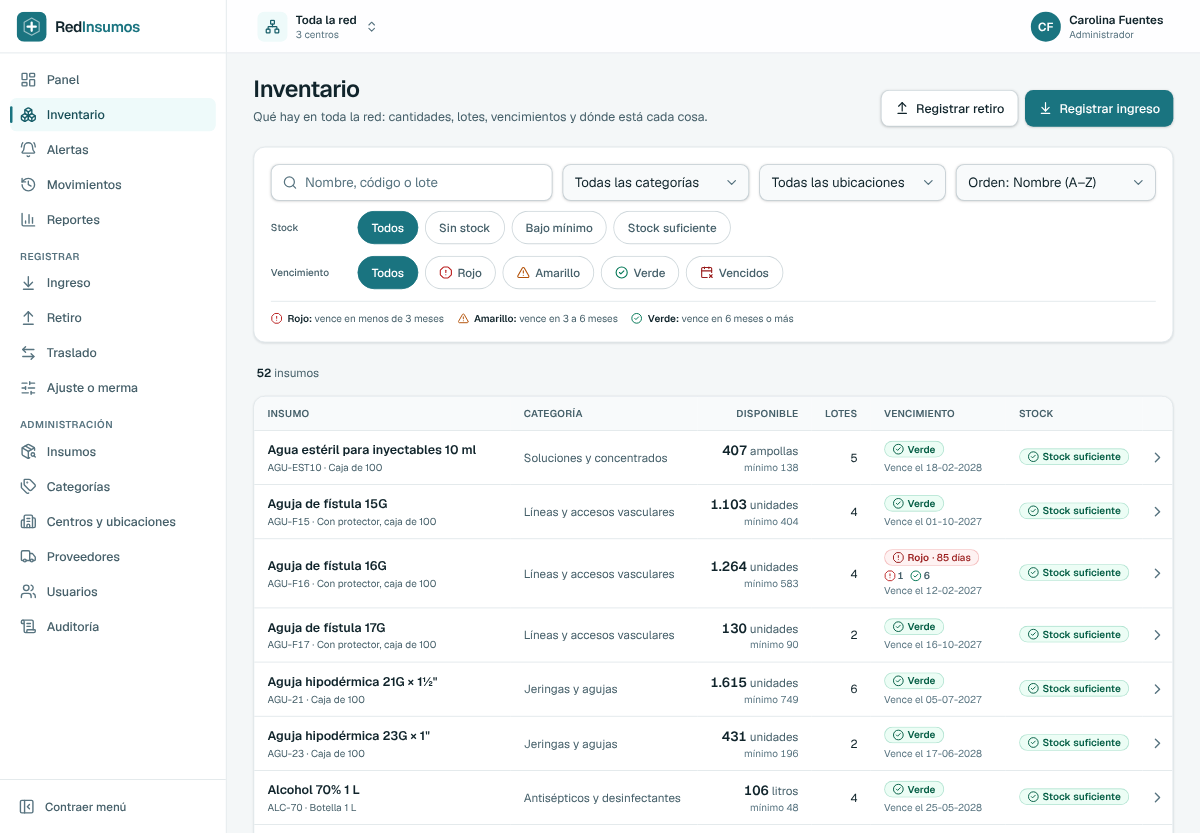
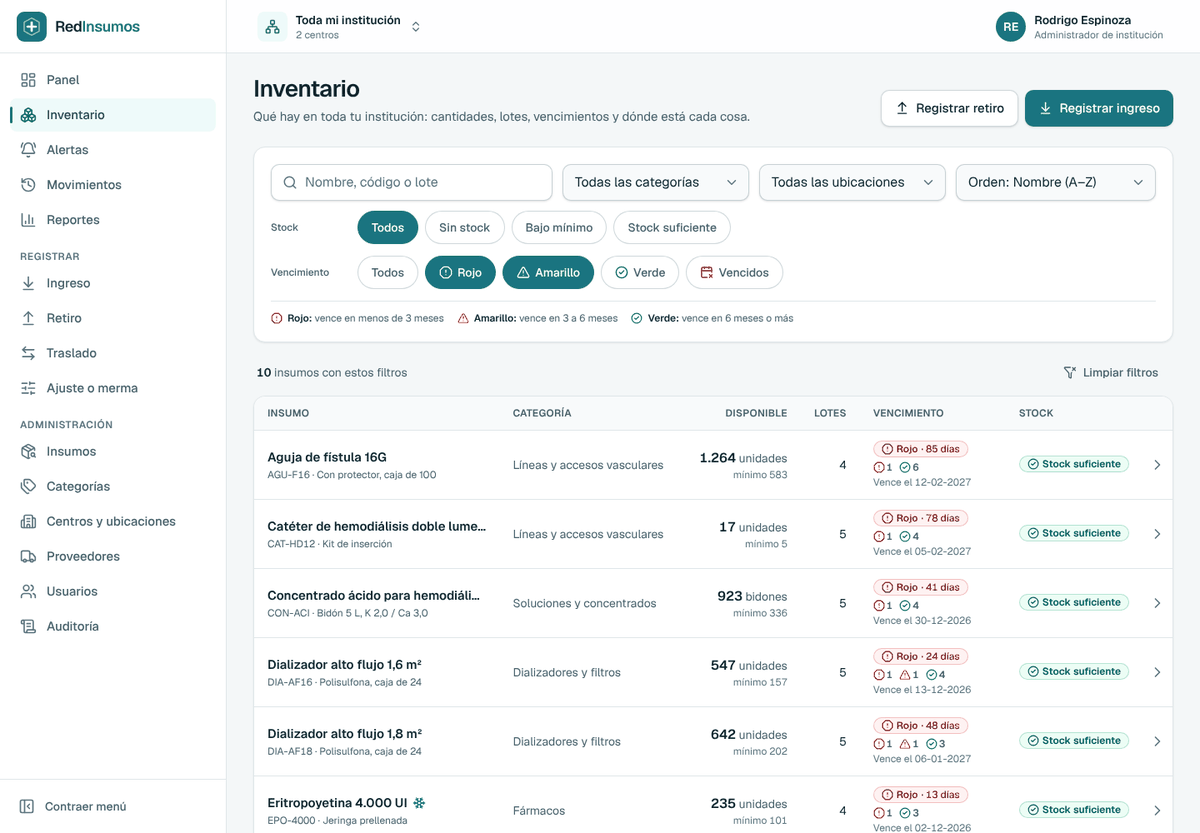
Documentación y capturas de la aplicación fusionada
Capturas regeneradas (14, optimizadas): panel de la red con semáforo e
instituciones, inventario y alertas con semáforo, administración de
instituciones, panel y escáner en el teléfono. README: capturas y pendientes al
día. OPERACION: catálogo compartido, códigos de barras, proveedores y cámara.
DESPLIEGUE: orden de las dos migraciones.

diff --git a/e2e/roles-semaforo-escaner.spec.ts b/e2e/roles-semaforo-escaner.spec.ts
@@ -133,8 +133,8 @@ test.describe("Visitante: proveedores", () => {
     // Nada de edición ni de administración.
     await expect(directorio.getByRole("link", { name: /Editar/ })).toHaveCount(0);
     await expect(directorio.getByRole("link", { name: "Administrar proveedores" })).toHaveCount(0);
-    const admin = await visita.request.get("/admin/proveedores", { maxRedirects: 0 });
-    expect(admin.status()).not.toBe(200);
+    await visita.goto("/admin/proveedores");
+    await expect(visita).toHaveURL(/\/sin-permiso$/);
   });
 
   test("«Editar» es de los dos administradores (de la red y de institución), no del bodeguero", async ({ abrirComo }) => {
@@ -151,7 +151,7 @@ test.describe("Visitante: proveedores", () => {
 });
 
 test.describe("Administrador de la red: semáforo por institución", () => {
-  test("@movil cada institución muestra vencidos, rojo y amarillo; al desplegarla, sus centros con enlaces a la pestaña correcta", async ({ abrirComo }) => {
+  test("@movil cada institución muestra vencidos, rojo y amarillo; al desplegarla, sus centros con enlaces a la pestaña correcta", async ({ abrirComo, isMobile }) => {
     const red = await abrirComo("admin");
     await red.goto("/panel");
     const resumen = red.locator("[data-resumen-instituciones]");
@@ -198,8 +198,12 @@ test.describe("Administrador de la red: semáforo por institución", () => {
     await nunoa.getByRole("link", { name: new RegExp(`lotes en rojo en ${CENTROS.nunoa}`) }).click();
     await expect(red).toHaveURL(/\/alertas\?tab=rojo&centro=/);
     await expect(red.getByRole("main").locator('a[aria-current="page"]')).toContainText("Rojo");
-    await expect(red.getByRole("banner")).toContainText(CENTROS.nunoa);
-    await expect(red.getByRole("main")).not.toContainText(CENTROS.valpo);
+    await expect(red.getByRole("combobox", { name: "Centro" }).locator("option:checked")).toHaveText(CENTROS.nunoa);
+    // La tabla (escritorio) o la lista (celular) solo trae lotes de ese centro.
+    const lotes = isMobile ? red.getByRole("list", { name: "Lotes en rojo" }) : red.getByRole("main").locator("tbody");
+    await expect(lotes).toContainText("Lote");
+    await expect(lotes).not.toContainText(CENTROS.valpo);
+    await expect(lotes).not.toContainText(CENTROS.conce);
   });
 
   test("la suma del semáforo de las instituciones del seed no supera el de toda la red, y un administrador de institución ve solo el suyo", async ({ abrirComo }) => {

diff --git a/README.md b/README.md
@@ -8,7 +8,7 @@ tablet o teléfono) y conecta a todos los centros de una misma red. La red puede
 instituciones**: cada una ve y administra solo lo suyo, y el operador de la plataforma ve el
 conjunto.
 
-![Panel del administrador](docs/capturas/02-panel-administrador.png)
+![Panel del administrador de la red: indicadores, la red por institución y el semáforo de vencimientos](docs/capturas/02-panel-administrador.png)
 
 ## Qué hace
 
@@ -37,11 +37,15 @@ conjunto.
 
 | Inventario | Registrar un retiro |
 |---|---|
-| ![Inventario](docs/capturas/03-inventario.png) | ![Retiro](docs/capturas/06-retiro.png) |
+| ![Inventario con el semáforo de vencimiento](docs/capturas/03-inventario.png) | ![Retiro](docs/capturas/06-retiro.png) |
 
-| Alertas | En el teléfono | Escáner |
-|---|---|---|
-| ![Alertas](docs/capturas/08-alertas.png) | <img src="docs/capturas/13-panel-movil.png" alt="Panel en el teléfono" width="260"> | <img src="docs/capturas/14-escaner-movil.png" alt="Escáner de códigos en el teléfono" width="260"> |
+| Alertas (pestaña Rojo) | Administración de instituciones |
+|---|---|
+| ![Alertas](docs/capturas/08-alertas.png) | ![Instituciones](docs/capturas/11-instituciones.png) |
+
+| En el teléfono | Escáner |
+|---|---|
+| <img src="docs/capturas/13-panel-movil.png" alt="Panel en el teléfono, con el botón Escanear" width="260"> | <img src="docs/capturas/14-escaner-movil.png" alt="Escanear para ingresar en el teléfono" width="260"> |
 
 ## Roles
 
@@ -244,6 +248,9 @@ npm run test:e2e          # todo; agrega p. ej. `retiros`, `--project=movil` o `
   esa sesión. `e2e/instituciones.spec.ts` cubre el aislamiento entre instituciones (menú, URL
   directa con ids ajenos, selector de centro, exportación CSV y Server Actions manipuladas), el
   resumen de la red por institución y el alta de una institución con su primer administrador.
+  `e2e/roles-semaforo-escaner.spec.ts` cubre lo que cruza ambas funciones: el administrador de
+  institución en el escáner (crea el insumo con el código, no lo asocia a uno existente), el
+  visitante viendo proveedores y el semáforo por institución del administrador de la red.
 - **Límite de intentos de ingreso.** El servidor de la suite corre con `TRUST_PROXY=1` (lo fija
   `playwright.config.ts`; es solo de ese servidor de pruebas) y cada test envía su propia
   `X-Forwarded-For` con una IP distinta (`ipDelTest`, en `e2e/soporte/fixtures.ts`), como personas
@@ -271,6 +278,18 @@ La aplicación está completa para el alcance descrito arriba y pasa todas sus v
 - **Bloqueo de cuentas sin proxy declarado:** sin `TRUST_PROXY` la aplicación no conoce la IP de
   cada persona y el bloqueo por intentos fallidos es por cuenta (un tercero podría bloquearla 15
   minutos). En producción con Docker Compose ya viene configurado.
+- **Asociar códigos de barras a insumos existentes** es solo del administrador de la red (el
+  catálogo es compartido). Un administrador de institución puede crear un insumo nuevo con el
+  código escaneado, pero si el insumo ya existe debe pedirle la asociación al administrador de la
+  red: no hay un flujo de "solicitud" dentro de la aplicación.
+- **Proveedores compartidos:** el directorio y sus datos de contacto son comunes a toda la red;
+  cualquier administrador (de la red o de una institución) puede editarlos, y el cambio lo ven
+  todas las instituciones (queda en la auditoría). Solo el orden "más usados primero" es propio
+  de cada institución.
+- **Detrás de un proxy o túnel que cambia el dominio** (por ejemplo una vista previa) el inicio de
+  sesión falla si el proxy no reenvía el host público; se resuelve en el proxy o compilando con
+  `SERVER_ACTIONS_ORIGENES` (ver [`docs/DESPLIEGUE.md`](docs/DESPLIEGUE.md) §2.3). La aplicación
+  no se puede incrustar en un `<iframe>`.
 - **Escáner:** probado con la cámara simulada de Chromium y con imágenes generadas (EAN-13,
   Code 128, DataMatrix GS1 y QR); conviene validarlo con los teléfonos reales del centro (iPhone/
   Safari y Android/Chrome) y con los envases que más se reciben antes de darlo por bueno. Requiere

diff --git a/docs/OPERACION.md b/docs/OPERACION.md
@@ -143,6 +143,30 @@ administrador de su institución, desde **Usuarios**.)
 
 ---
 
+## Catálogo compartido, códigos de barras y proveedores
+
+El catálogo de insumos y los proveedores son **comunes a toda la red**; el stock, los mínimos y el
+semáforo de vencimientos son de cada institución (cada una ve solo los suyos; el administrador de
+la red ve el total y, en el Panel, el desglose por institución).
+
+| Tarea | Quién |
+|---|---|
+| Crear un insumo o una categoría (también desde el escáner, **Crear insumo con este código**) | Administrador de la red o de institución |
+| Editar o desactivar un insumo existente, o **asociarle un código de barras** (desde el escáner o en su ficha) | Solo el administrador de la red |
+| Crear, editar o desactivar proveedores (teléfono, correo, **sitio web para comprar**) | Administrador de la red o de institución; el cambio lo ven todas las instituciones |
+| Ver el directorio de proveedores (Panel y **Proveedores**) | Todos los roles |
+
+- Cuando un bodeguero o un administrador de institución avisa que un código "no se reconoce" y el
+  insumo **ya existe**, el administrador de la red lo resuelve escaneando el mismo código y
+  marcando **Asociar este código a ese insumo**, o escribiéndolo en **Administración → Insumos**.
+  El mismo producto no puede quedar en dos insumos (aunque el código venga como EAN-13 o GTIN-14).
+- El sitio web de un proveedor solo admite direcciones `http(s)`; lo que se escribe sin
+  `https://` se completa solo.
+- Los límites del semáforo (rojo: menos de 3 meses; amarillo: de 3 a 6) son fijos y no se
+  configuran.
+
+---
+
 ## Respaldos
 
 ### Verificar que se están haciendo
@@ -332,12 +356,23 @@ curl -s http://127.0.0.1:3000/api/salud
 - **Nadie puede entrar tras una restauración**: las cuentas son las del momento del respaldo. Usa
   `admin:crear --restablecer`.
 
+### El escáner no abre la cámara
+
+- **"La cámara necesita una conexión segura"**: el sitio se abrió por HTTP. La cámara solo funciona
+  por HTTPS ([`DESPLIEGUE.md` §6](DESPLIEGUE.md#6-https-es-obligatorio)).
+- **"Falta el permiso para usar la cámara"**: se negó el permiso en el navegador; se cambia desde
+  el candado junto a la dirección (en iPhone, «aA»).
+- Si un proxy propio agrega la cabecera `Permissions-Policy: camera=()`, bloquea la cámara: debe
+  dejar pasar la de la aplicación (`camera=(self)`).
+- Siempre queda la alternativa **Escribir el código** o un lector USB/Bluetooth.
+
 ### Un usuario no ve un centro, un menú o un botón
 
 Es por su rol, su institución o sus centros asignados. Revisa **Editar datos, rol y centros**.
 Recuerda que solo los administradores hacen traslados, ajustes y mermas, y ven reportes y
 administración; que nadie ve centros de otra institución; y que solo el administrador de la red ve
-**Instituciones** y puede modificar insumos y categorías existentes.
+**Instituciones** y puede modificar insumos y categorías existentes (incluido asociarles un código
+de barras). **Escanear** aparece solo a quien registra ingresos (no al visitante).
 
 ### "Ocurrió un error inesperado"
 

diff --git a/docs/DESPLIEGUE.md b/docs/DESPLIEGUE.md
@@ -516,6 +516,11 @@ En la opción B el flujo es el mismo en concepto: respaldo → migraciones → p
 
 ### Actualizar desde una versión anterior al nivel Institución
 
+Esta actualización trae dos migraciones, que `prisma migrate deploy` aplica en orden:
+`proveedor_sitio_web` (una columna opcional en proveedores con su `CHECK`; no toca datos) e
+`instituciones`. Ambas se probaron sobre una copia de una base en la versión anterior (con su
+historial de movimientos y auditoría) y sobre una base nueva.
+
 La migración `instituciones` convierte una instalación de una sola organización sin perder datos:
 
 - crea la institución **"Institución principal"** y le asigna todos los centros y todos los
